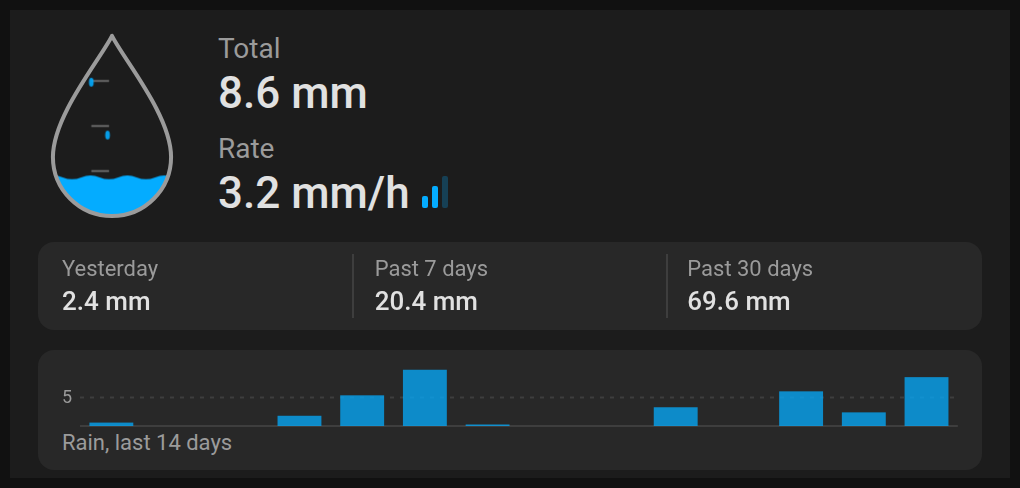
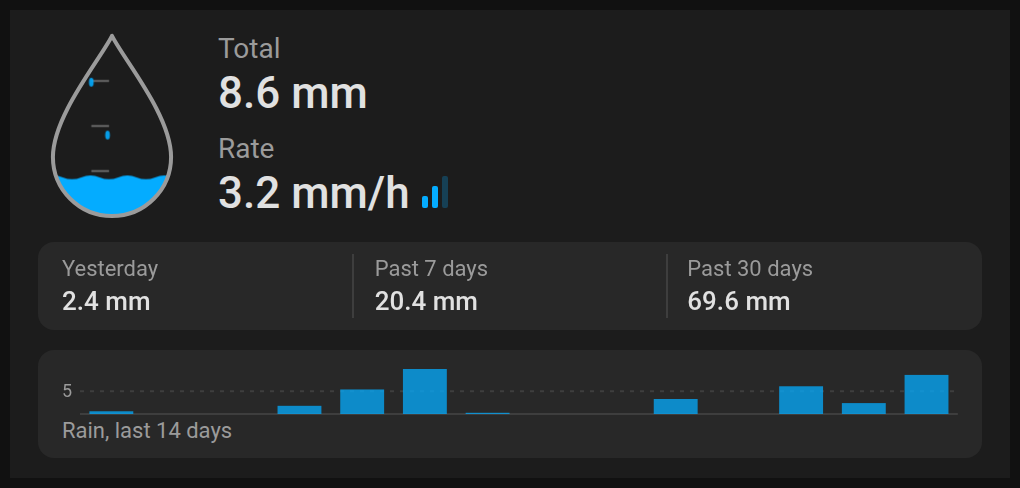
Shorter charts and the same 10 px gap under every part
The charts' plots are 24 px instead of 30, so a chart is 54 px and with its gap
still exactly the row it asks for. The totals and the charts all have the same
10 px gap under them at every width, down to the card's edge. A chart shows fewer
marker lines where two would now be closer than their values need.

diff --git a/dist/compact-rain-gauge-card.js b/dist/compact-rain-gauge-card.js
@@ -668,7 +668,7 @@ var GestureDetector = class {
 var WIDTH = 100;
 var HEIGHT = 32;
 var TOP = 2;
-var PLOT_HEIGHT = 30;
+var PLOT_HEIGHT = 24;
 var MARK_GAP = 10;
 var BASELINE_GAP = 5;
 var CompactRainGaugeChart = class extends i4 {
@@ -792,12 +792,12 @@ var CompactRainGaugeChart = class extends i4 {
                 position: relative;
                 flex: 1;
                 min-width: 0;
-                height: 30px;
+                height: 24px;
                 touch-action: pan-y;
             }
             .axis {
                 position: relative;
-                height: 30px;
+                height: 24px;
                 margin-right: 4px;
                 font-size: 9px;
                 line-height: 9px;
@@ -2435,10 +2435,12 @@ var CompactRainGaugeCard = class extends i4 {
                 }
             }
 
-            /* A chart is 60 px, so with this margin it takes exactly the 64 px row it asks for, at every width. A wider
-               margin left a wide card without the totals a few pixels short, and the fitting left the chart out. */
+            /* The same gap under every part at every width, so the totals and the charts are evenly spaced down to the card's
+               edge. A chart is 54 px, so with its gap it takes exactly the 64 px row it asks for. A chart and a gap taller
+               than that left a wide card without the totals a few pixels short, and the fitting left the chart out. */
+            .content .extras,
             .content .chart {
-                margin-bottom: 4px;
+                margin-bottom: 10px;
             }
         `;
   }

diff --git a/src/chart.ts b/src/chart.ts
@@ -19,7 +19,7 @@ const HEIGHT = 32;
 /** Room above the highest value, so a peak doesn't touch the top. */
 const TOP = 2;
 /** The plot's height in pixels, as in the styles below. */
-const PLOT_HEIGHT = 30;
+const PLOT_HEIGHT = 24;
 /** The least room in pixels between two marker lines, and between the lowest and the baseline, so their values fit. */
 const MARK_GAP = 10;
 const BASELINE_GAP = 5;
@@ -168,12 +168,12 @@ export class CompactRainGaugeChart extends LitElement {
                 position: relative;
                 flex: 1;
                 min-width: 0;
-                height: 30px;
+                height: 24px;
                 touch-action: pan-y;
             }
             .axis {
                 position: relative;
-                height: 30px;
+                height: 24px;
                 margin-right: 4px;
                 font-size: 9px;
                 line-height: 9px;

diff --git a/src/compact-rain-gauge-card.ts b/src/compact-rain-gauge-card.ts
@@ -973,10 +973,12 @@ export class CompactRainGaugeCard extends LitElement {
                 }
             }
 
-            /* A chart is 60 px, so with this margin it takes exactly the 64 px row it asks for, at every width. A wider
-               margin left a wide card without the totals a few pixels short, and the fitting left the chart out. */
+            /* The same gap under every part at every width, so the totals and the charts are evenly spaced down to the card's
+               edge. A chart is 54 px, so with its gap it takes exactly the 64 px row it asks for. A chart and a gap taller
+               than that left a wide card without the totals a few pixels short, and the fitting left the chart out. */
+            .content .extras,
             .content .chart {
-                margin-bottom: 4px;
+                margin-bottom: 10px;
             }
         `;
     }

diff --git a/tests/drawing.test.ts b/tests/drawing.test.ts
@@ -65,16 +65,16 @@ describe("the marker lines", () => {
     it.each([
         [2, [1, 2]],
         [3.3, [2]],
-        [7, [2, 5]],
-        [12, [5, 10]],
+        [7, [5]],
+        [12, [10]],
         [30, [20]],
-        [8.4375, [2, 5]],
+        [8.4375, [5]],
         [150, [100]],
         [1, [0.5, 1]],
         [0.1, [0.05, 0.1]],
         [0.05, [0.02, 0.05]],
-        [24, [10, 20]],
-        [1.2, [0.5, 1]],
+        [24, [20]],
+        [1.2, [1]],
         [0.005, []],
     ])("reach up the chart from the largest round value, apart enough for their values, at a top of %s", (top, marks) => {
         expect(marksUnder(top, roundValues(top))).toEqual(marks);
